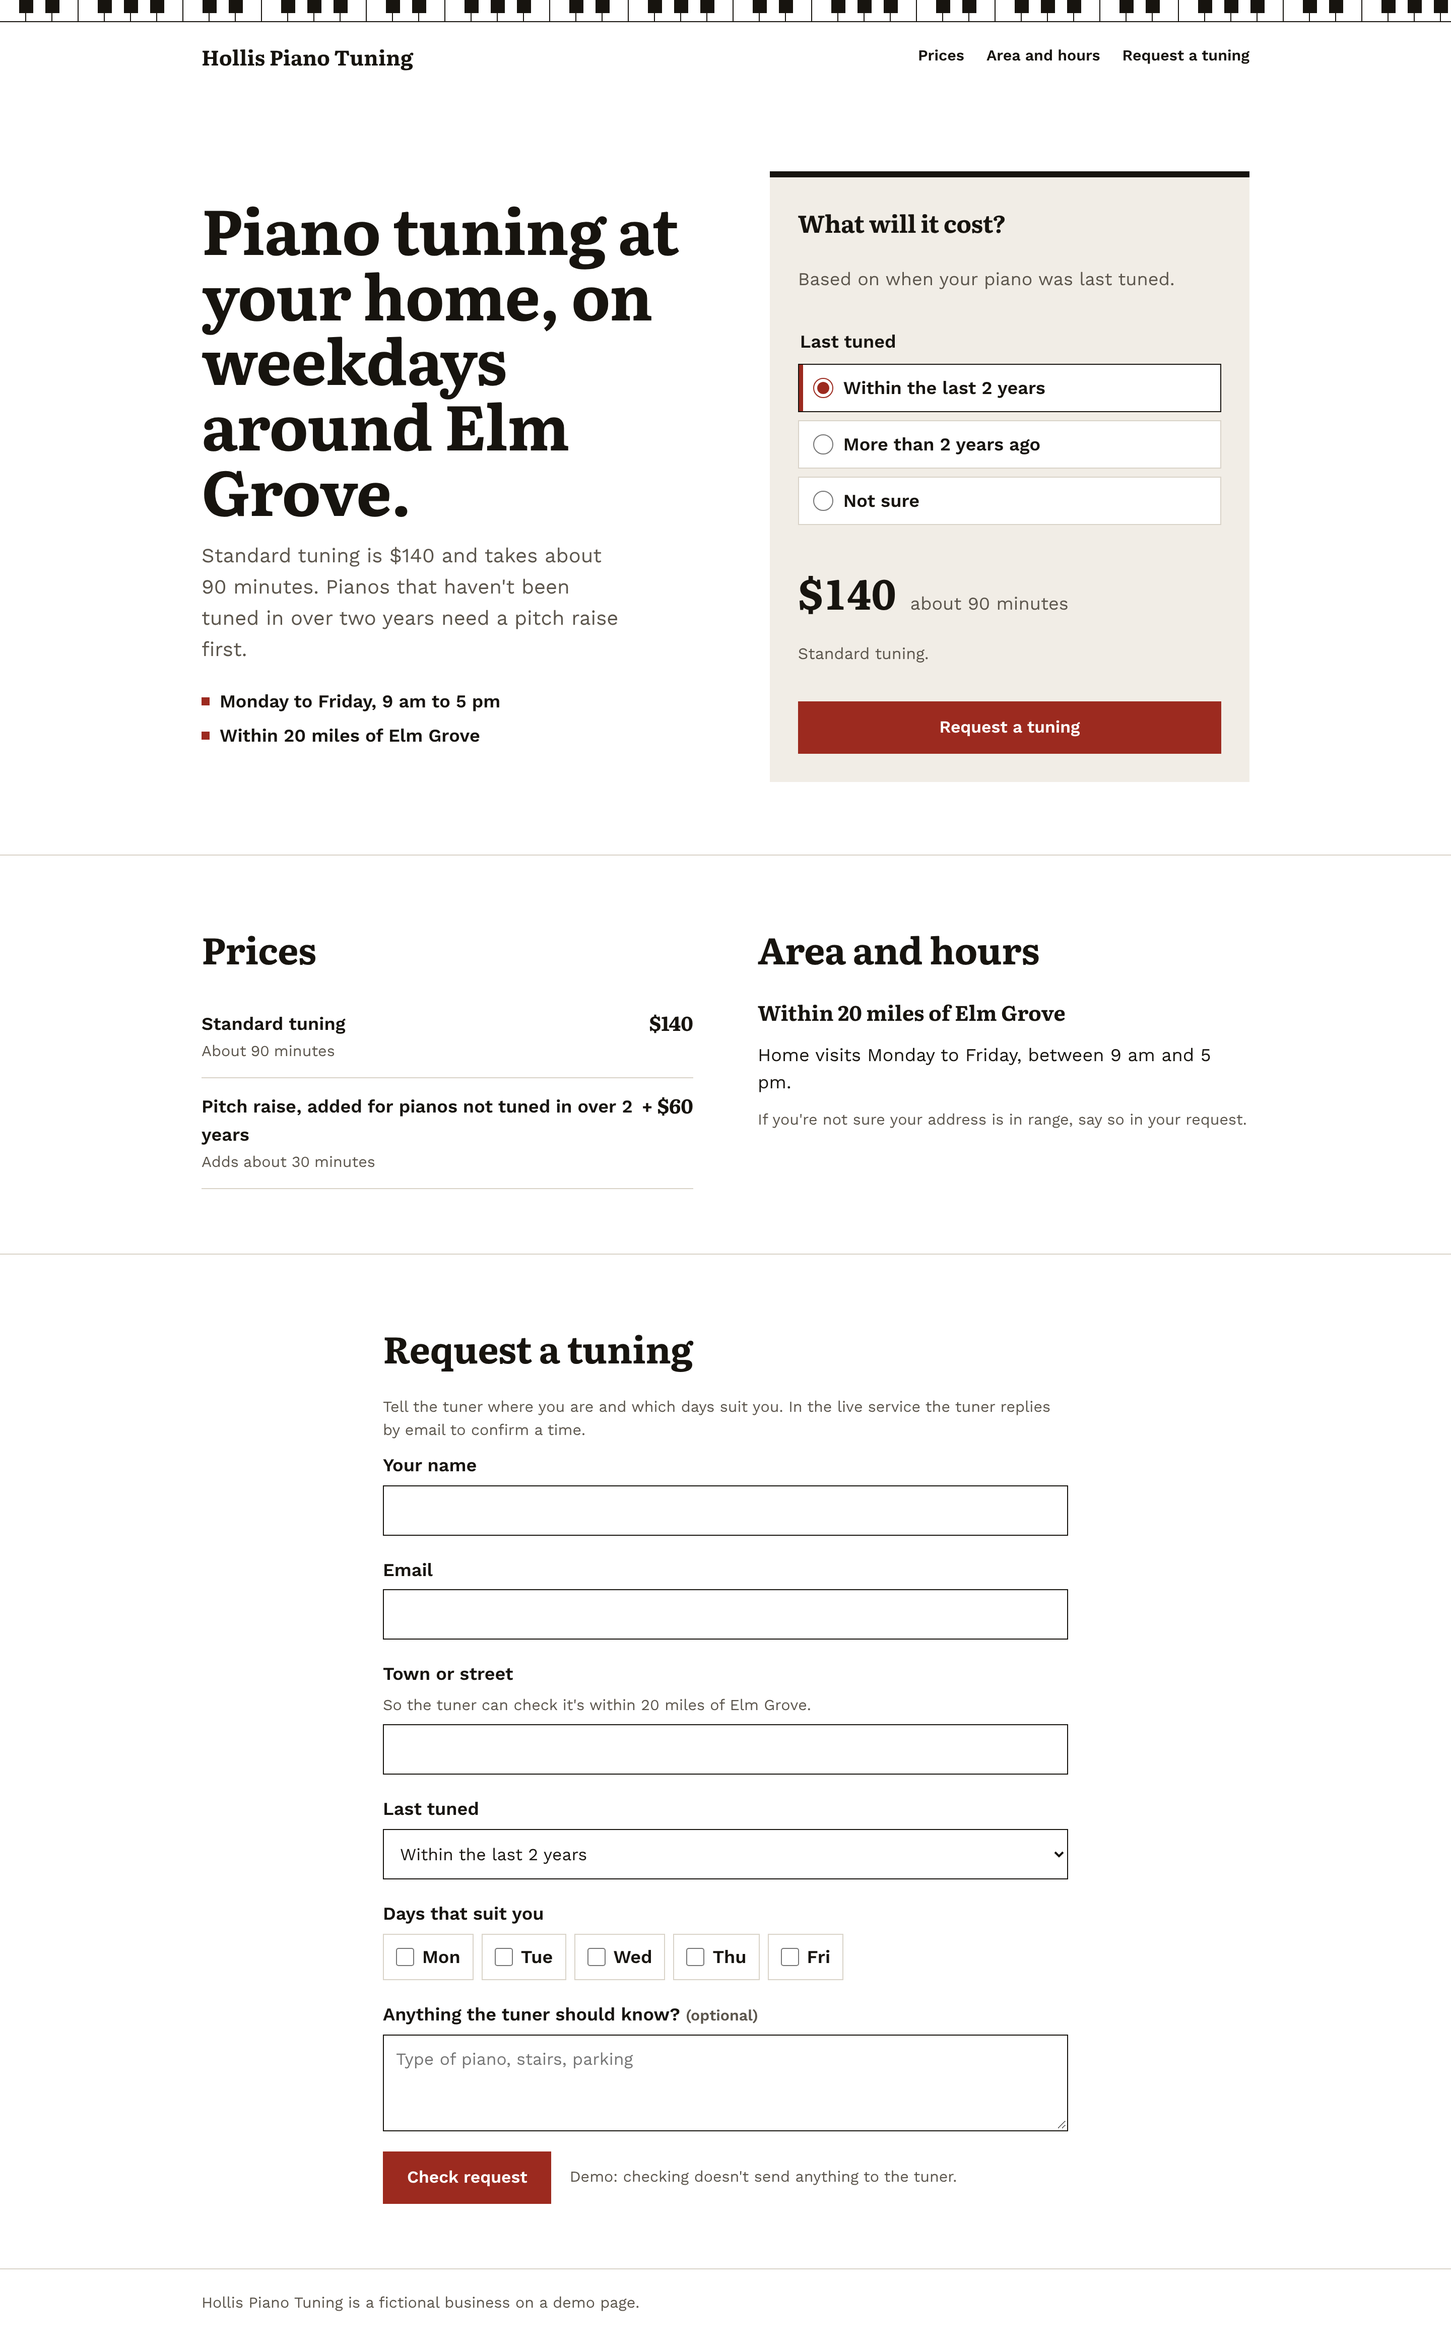
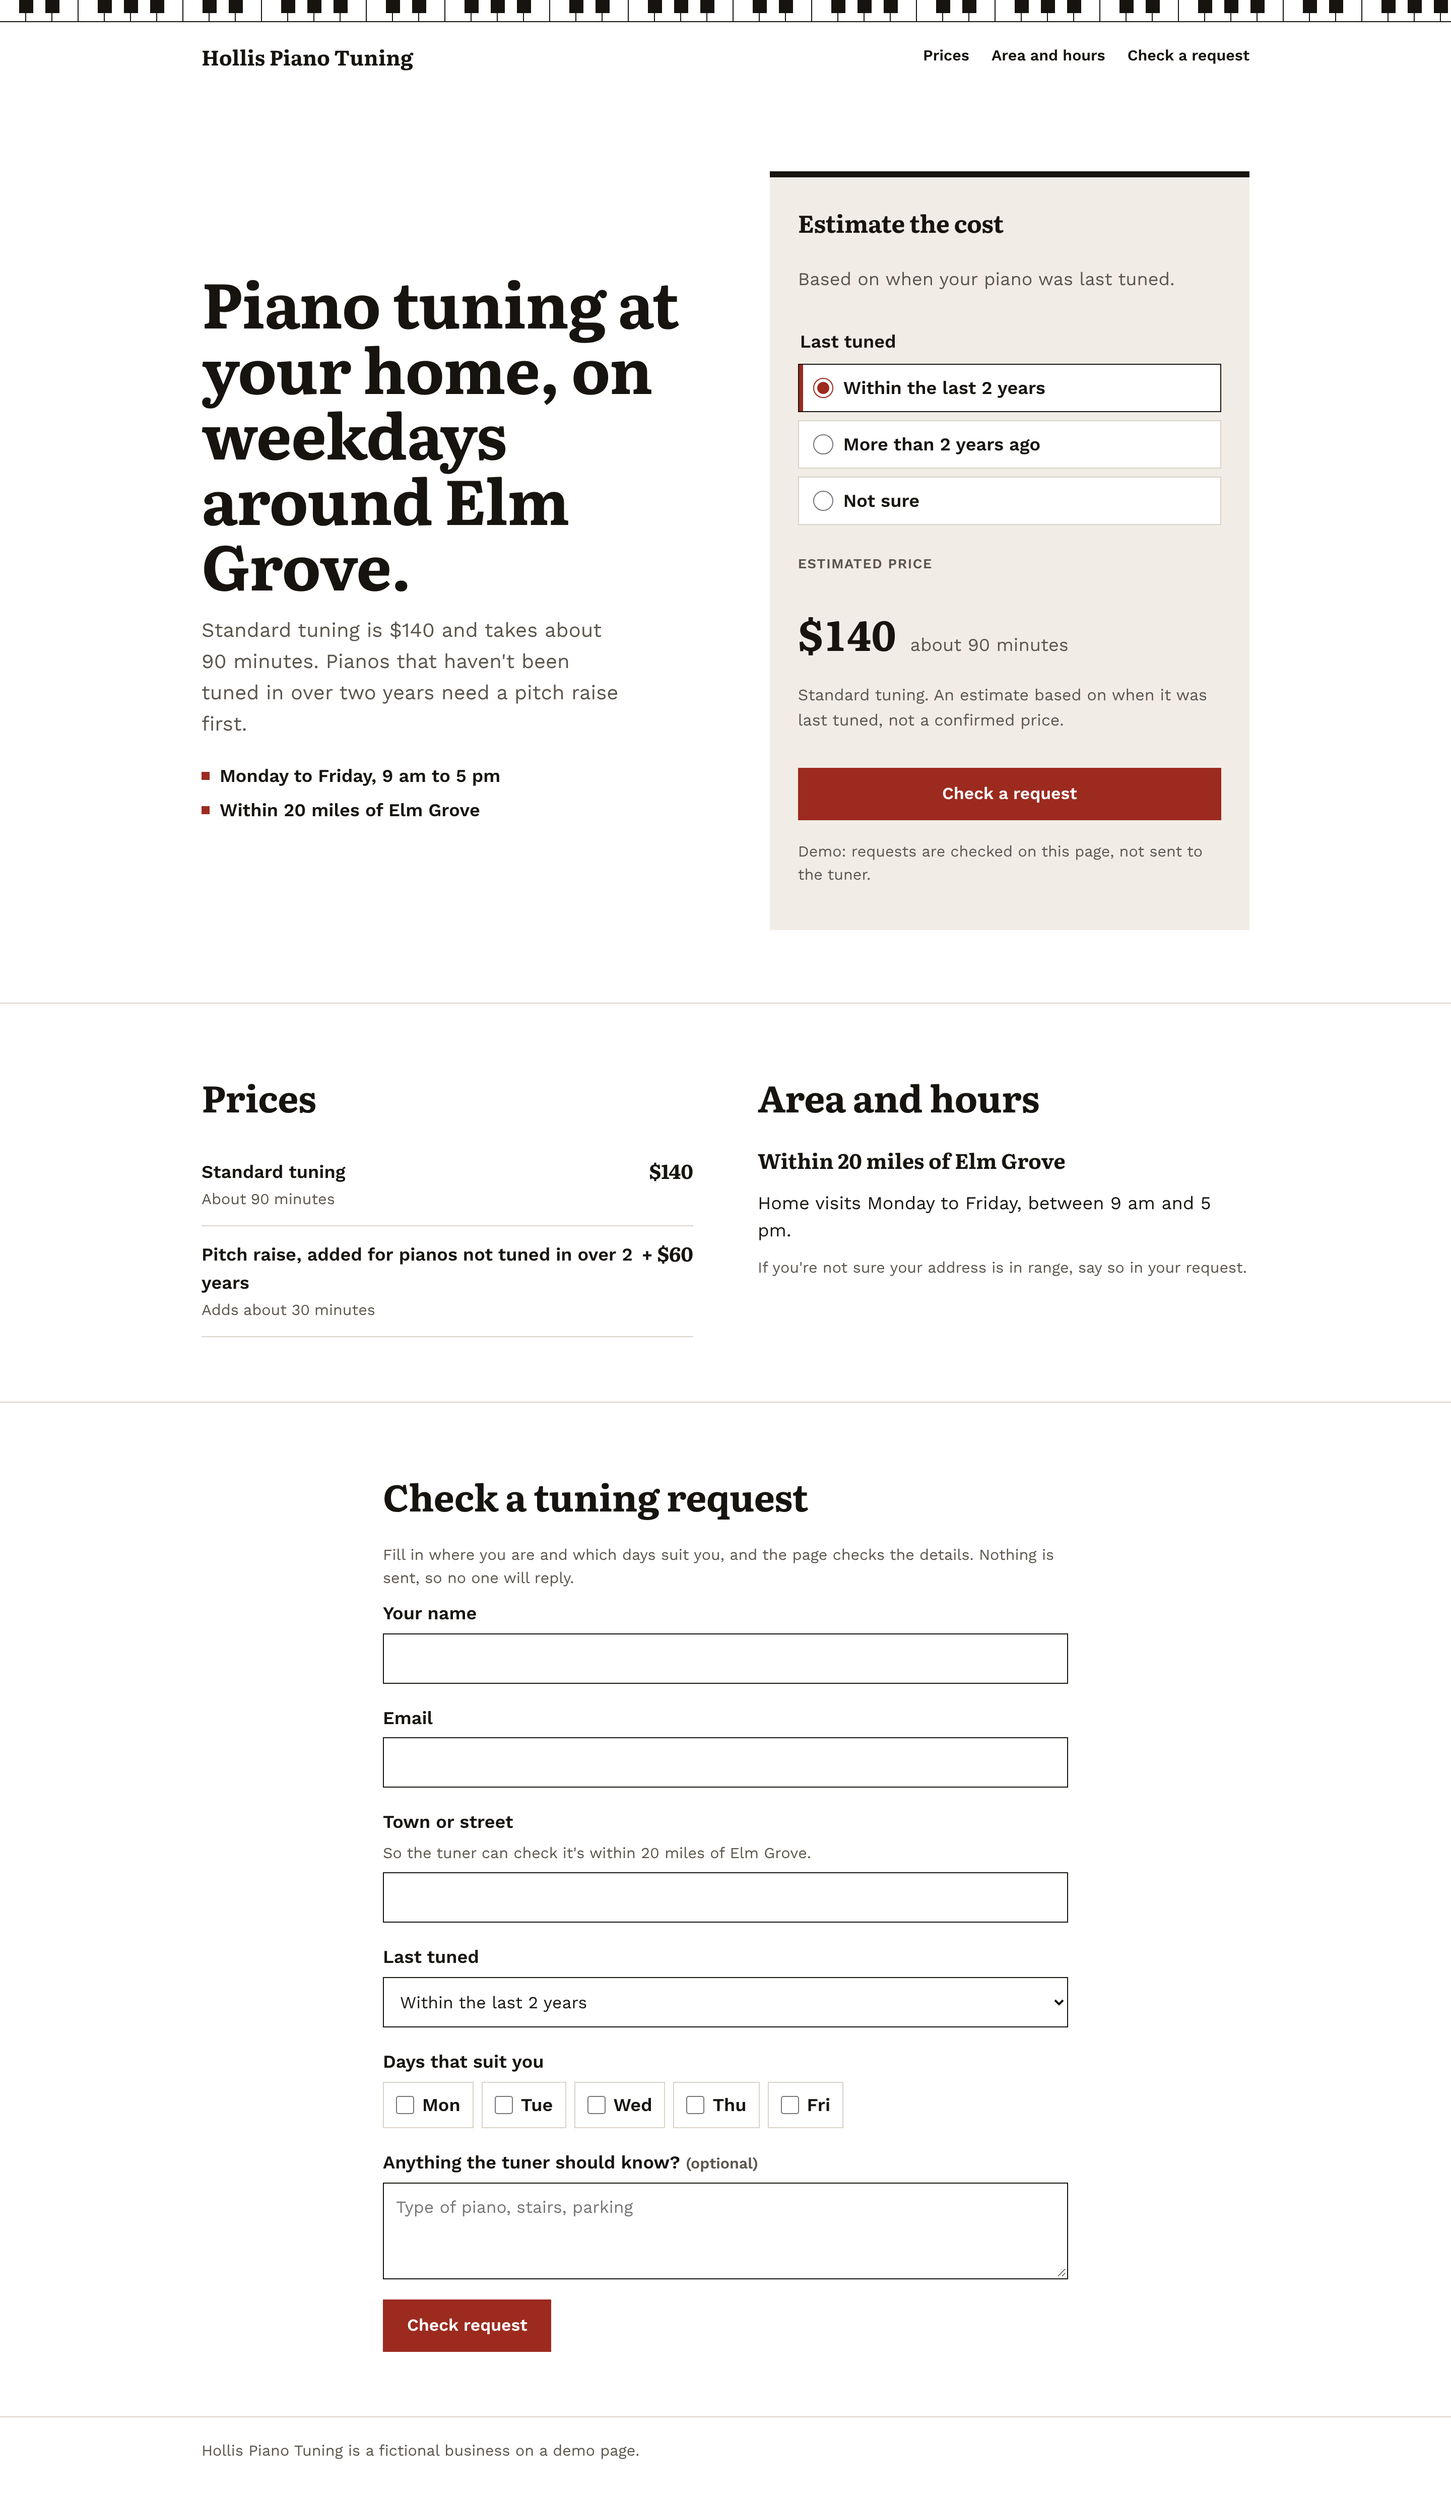
Hollis: action labels match check-only demo; estimate wording
Claude-Session: https://claude.ai/code/session_01DDE6raJnxGKK4DmQPpbiwZ

diff --git a/examples/fresh-test-hollis-piano/index.html b/examples/fresh-test-hollis-piano/index.html
@@ -61,10 +61,12 @@ legend { font-weight: 600; margin-bottom: 8px; }
 .choice:hover { border-color: var(--ebony); }
 .choice input { width: 20px; height: 20px; accent-color: var(--felt); margin: 0; }
 .choice:has(input:checked) { border-color: var(--ebony); box-shadow: inset 4px 0 0 var(--felt); }
-.total { display: flex; align-items: baseline; gap: 14px; flex-wrap: wrap; margin: 18px 0 4px; }
+.total { display: flex; align-items: baseline; gap: 14px; flex-wrap: wrap; margin: 4px 0 4px; }
 .total strong { font: 700 2.6rem/1 var(--serif); font-variant-numeric: tabular-nums; }
 .total span { color: var(--muted); }
 .breakdown { margin: 0 0 18px; font-size: 1rem; color: var(--muted); min-height: 1.5em; }
+.est-label { margin: 16px 0 0; font-size: 0.85rem; font-weight: 600; text-transform: uppercase; letter-spacing: 0.06em; color: var(--muted); }
+.demo-note { margin: 10px 0 0; font-size: 0.95rem; color: var(--muted); }
 .btn { display: inline-flex; align-items: center; justify-content: center; font: 600 1.05rem/1 var(--sans); min-height: 52px; padding: 0 24px; background: var(--felt); color: var(--white); border: 0; text-decoration: none; cursor: pointer; }
 .btn:hover { background: var(--felt-dark); color: var(--white); }
 .btn:active { transform: translateY(1px); }
@@ -118,8 +120,8 @@ footer { border-top: 1px solid var(--keyline); padding: 22px 0 36px; color: var(
 <header>
   <div class="wrap">
     <span class="name">Hollis Piano Tuning</span>
-    <a class="m-request" href="#request" aria-label="Request a tuning">Request</a>
-    <nav class="nav" aria-label="Sections"><a href="#prices">Prices</a><a href="#area">Area and hours</a><a href="#request">Request a tuning</a></nav>
+    <a class="m-request" href="#request">Check a request</a>
+    <nav class="nav" aria-label="Sections"><a href="#prices">Prices</a><a href="#area">Area and hours</a><a href="#request">Check a request</a></nav>
   </div>
 </header>
 
@@ -136,7 +138,7 @@ footer { border-top: 1px solid var(--keyline); padding: 22px 0 36px; color: var(
       </div>
 
       <form class="estimate" aria-labelledby="est-title" onsubmit="return false">
-        <h2 id="est-title">What will it cost?</h2>
+        <h2 id="est-title">Estimate the cost</h2>
         <p>Based on when your piano was last tuned.</p>
         <fieldset>
           <legend>Last tuned</legend>
@@ -144,9 +146,11 @@ footer { border-top: 1px solid var(--keyline); padding: 22px 0 36px; color: var(
           <label class="choice"><input type="radio" name="last" value="old"> More than 2 years ago</label>
           <label class="choice"><input type="radio" name="last" value="unsure"> Not sure</label>
         </fieldset>
+        <p class="est-label">Estimated price</p>
         <div class="total" aria-live="polite"><strong data-total>$140</strong><span data-time>about 90 minutes</span></div>
-        <p class="breakdown" data-breakdown>Standard tuning.</p>
-        <a class="btn" href="#request" data-to-form>Request a tuning</a>
+        <p class="breakdown" data-breakdown>Standard tuning. An estimate based on when it was last tuned, not a confirmed price.</p>
+        <a class="btn" href="#request" data-to-form>Check a request</a>
+        <p class="demo-note">Demo: requests are checked on this page, not sent to the tuner.</p>
       </form>
     </div>
   </section>
@@ -173,8 +177,8 @@ footer { border-top: 1px solid var(--keyline); padding: 22px 0 36px; color: var(
 
   <section class="band request" id="request" aria-labelledby="req-title">
     <div class="wrap">
-      <h2 id="req-title">Request a tuning</h2>
-      <p class="hint">Tell the tuner where you are and which days suit you. In the live service the tuner replies by email to confirm a time.</p>
+      <h2 id="req-title">Check a tuning request</h2>
+      <p class="hint">Fill in where you are and which days suit you, and the page checks the details. Nothing is sent, so no one will reply.</p>
       <form novalidate data-form>
         <div class="field" data-f="name"><label for="name">Your name</label><input type="text" id="name" autocomplete="name"><p class="err" id="name-err"></p></div>
         <div class="field" data-f="email"><label for="email">Email</label><input type="email" id="email" autocomplete="email"><p class="err" id="email-err"></p></div>
@@ -186,7 +190,7 @@ footer { border-top: 1px solid var(--keyline); padding: 22px 0 36px; color: var(
             <label class="day"><input type="checkbox" value="Monday"> Mon</label><label class="day"><input type="checkbox" value="Tuesday"> Tue</label><label class="day"><input type="checkbox" value="Wednesday"> Wed</label><label class="day"><input type="checkbox" value="Thursday"> Thu</label><label class="day"><input type="checkbox" value="Friday"> Fri</label>
           </div><p class="err" id="days-err"></p></div>
         <div class="field"><label for="note">Anything the tuner should know? <span class="hint">(optional)</span></label><textarea id="note" placeholder="Type of piano, stairs, parking"></textarea></div>
-        <div class="submit-row"><button class="btn" type="submit">Check request</button><p>Demo: checking doesn't send anything to the tuner.</p></div>
+        <div class="submit-row"><button class="btn" type="submit">Check request</button></div>
         <div class="result" role="status" aria-live="polite" data-result></div>
       </form>
     </div>
@@ -197,9 +201,9 @@ footer { border-top: 1px solid var(--keyline); padding: 22px 0 36px; color: var(
 <script>
 (function () {
   var est = {
-    recent: ["$140", "about 90 minutes", "Standard tuning."],
-    old: ["$200", "about 2 hours", "Standard tuning $140 plus a $60 pitch raise."],
-    unsure: ["$140 or $200", "90 minutes to 2 hours", "$200 if it needs a pitch raise, which applies when it hasn't been tuned in over 2 years."]
+    recent: ["$140", "about 90 minutes", "Standard tuning. An estimate based on when it was last tuned, not a confirmed price."],
+    old: ["$200", "about 2 hours", "Standard tuning $140 plus a $60 pitch raise. An estimate based on when it was last tuned, not a confirmed price."],
+    unsure: ["$140 or $200", "90 minutes to 2 hours", "$200 if it needs a pitch raise, which applies when it hasn't been tuned in over 2 years. An estimate, not a confirmed price."]
   };
   var picked = "recent";
   function show(v) {
@@ -225,7 +229,7 @@ footer { border-top: 1px solid var(--keyline); padding: 22px 0 36px; color: var(
     if (ok.indexOf(false) !== -1) { res.innerHTML = ""; var bad = form.querySelector('[aria-invalid="true"]'); (bad || form.querySelector(".day input")).focus(); return; }
     var last = form.querySelector("#last").value;
     res.innerHTML = "<h3>Request checked</h3><p>" + name.value.trim() + ", " + town.value.trim() + ". " + days.join(", ") +
-      ". Estimate: " + est[last][0] + ", " + est[last][1] + ".</p>";
+      ". Estimated price: " + est[last][0] + ", " + est[last][1] + ". Not sent.</p>";
   });
 })();
 </script>
